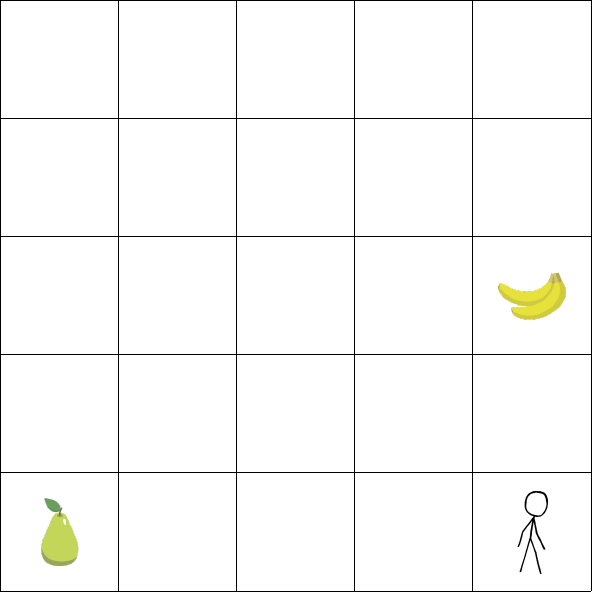
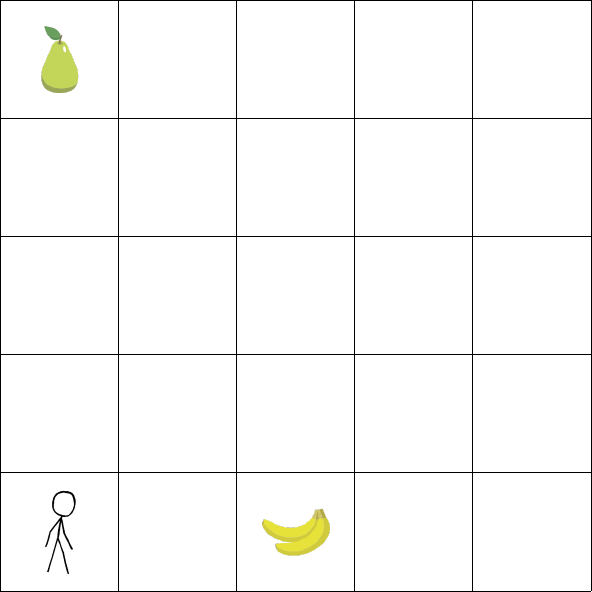
Fixed error in stimuli.

diff --git a/experiments/js/class-elicitation-2.js b/experiments/js/class-elicitation-2.js
@@ -44,17 +44,16 @@ function make_slides(f) {
         }
     });
 
-    // Set up the functionality of a slide loading in.
+    // Set up a trial slide.
     function start() {
+        // Hide any errors and sliders from the previous slide.
         $(".err").hide();
-
-        // removes the slider from the previous slide before making the slider for the current slide
         $(".slider_row").remove();
 
+        // Display the setup, stimulus, and prompt on the slide.
         $(".display_setup").html("Suppose an enforcer places one block on the grid.");
         $(".display_stimulus").html("<img style=\"height:350px;width:350px;\" src=\"../imgs/stimuli/" + 
                                     exp.trials[j] + "\"></script>");
-            // [4 3]_[1 0].png\"></script>");
     
         sentence1 = "To what degree did the enforcer think Matt wanted this fruit?"
         sentence2 = "Do you think the enforcer believes that Matt is thinking about it's actions?"
@@ -70,7 +69,7 @@ function make_slides(f) {
             utils.make_slider("#slider" + i, make_slider_callback(i));
         }
 
-        init_sliders(exp.num_sentences);
+        // init_sliders(exp.num_sentences);
         exp.sliderPost = [];
     }
 
@@ -96,6 +95,7 @@ function make_slides(f) {
         else {
             exp.data_trials.push({
                 "trial_num": j + 1,
+                "stimulus": exp.trials[j],
                 "target0": exp.sliderPost[2],
                 "target1": exp.sliderPost[3]
             });
@@ -188,7 +188,7 @@ function init() {
   // the blocks of the experiment
   exp.structure = ["i0", "instructions"];
   // for (var k = 1; k <= exp.trials; k++) {
-  for (var k = 1; k <= exp.num_trials; k++) {
+  for (var k = 1; k <= 4; k++) {
     exp.structure.push("trial" + k);
   }
   exp.structure.push("subj_info");

diff --git a/generate_stimuli.py b/generate_stimuli.py
@@ -106,7 +106,7 @@ def generate_stimuli(natural_cost, enforcer_action):
 			if sum(enforcer_action) == 0:
 				pass
 			elif np.argmax(enforcer_action) == 0:
-				first_rock = [1.0, banana_coordinates[1]+2.0]
+				first_rock = [9.0, banana_coordinates[1]+2.0]
 				rock_coordinates = [first_rock]
 				for action in np.arange(enforcer_action[0]):
 					if action == 0:
